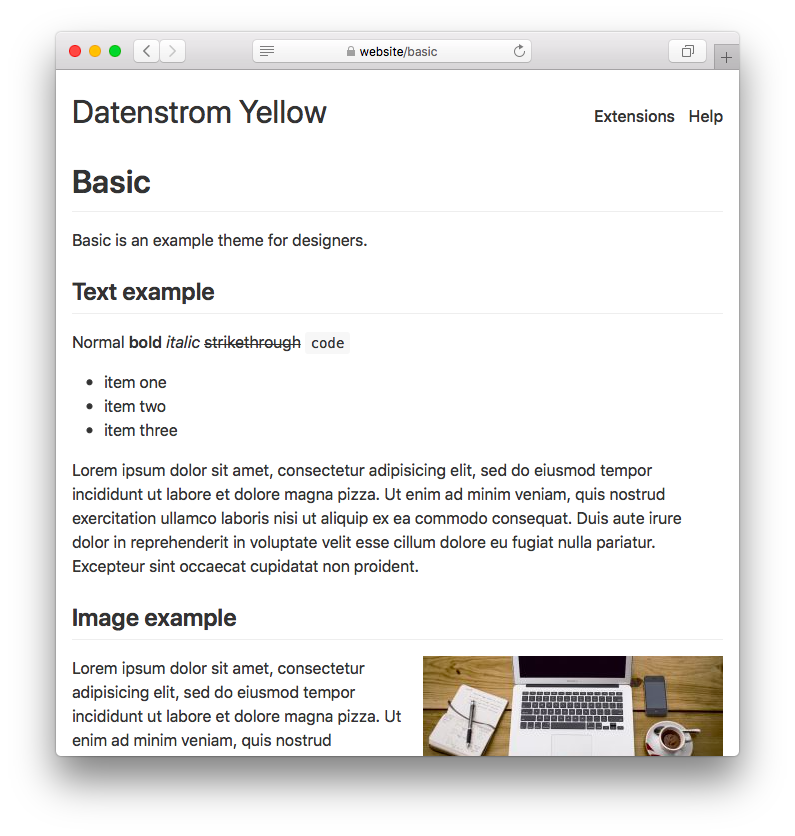
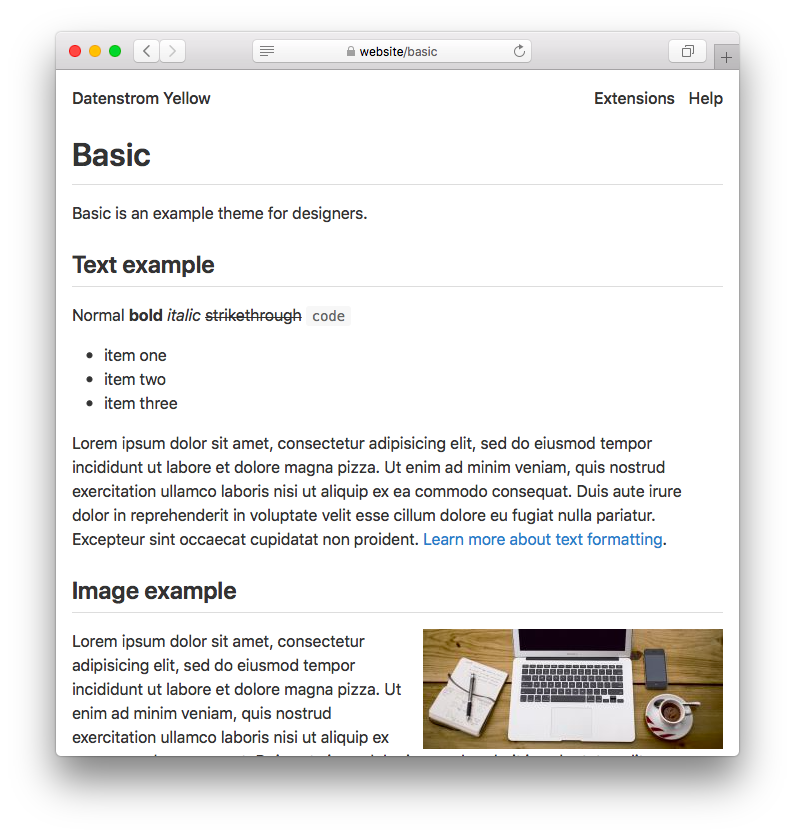
Updated theme, configurable colors in CSS

Changed region(s): [[0.0906, 0.0933, 0.9358, 0.9019], [0.7547, 0.0933, 0.9057, 0.1555]]

diff --git a/basic.css b/basic.css
@@ -1,5 +1,32 @@
 /* Basic extension, https://github.com/schulle4u/yellow-extension-basic */
 
+/* Colors and fonts */
+
+:root {
+    --bg: #fff;
+    --table-bg: #f8f8f8;
+    --code-bg: #f7f7f7;
+    --notice1-bg: #fffbf0;
+    --notice2-bg: #fdf0f0;
+    --notice3-bg: #f0f8fe;
+    --heading: #333;
+    --text: #333;
+    --code: #666;
+    --link: #4183c4;
+    --link-active: #333;
+    --blockquote: #777;
+    --blockquote-accent: #ddd;
+    --notice1-accent: #fb0;
+    --notice2-accent: #d00;
+    --notice3-accent: #08e;
+    --separator: #ddd;
+    --border: #bbb;
+    --font: -apple-system, Roboto, Helvetica, sans-serif;
+    --monospace-font: Consolas, Menlo, Courier, monospace;
+}
+
+/* General */
+
 html, body, div, form, pre, span, tr, th, td, img {
     margin: 0;
     padding: 0;
@@ -8,53 +35,93 @@ html, body, div, form, pre, span, tr, th, td, img {
 }
 body {
     margin: 1em;
-    background-color: #fff;
-    color: #333;
-    font-family: -apple-system, "Segoe UI", Roboto, Helvetica, sans-serif;
+    background-color: var(--bg);
+    color: var(--text);
+    font-family: var(--font);
     font-size: 1em;
     font-weight: 400;
-    line-height: 1.6;
+    line-height: 1.5;
 }
-h1,
-h2,
-h3,
-h4,
-h5,
-h6 {
-    color: #333;
-    font-weight: normal;
+h1, h2, h3, h4, h5, h6 {
+    color: var(--heading);
+    font-weight: 400;
 }
 h1 {
     font-size: 2em;
-    font-weight: 600;
 }
 hr {
     height: 1px;
-    background: #ddd;
+    background: var(--separator);
     border: 0;
 }
 strong {
-    font-weight: 600;
+    font-weight: bold;
 }
 code {
     font-size: 1.1em;
 }
 a {
-    color: #0366d6;
+    color: var(--link);
     text-decoration: none;
 }
 a:hover {
-    color: #0366d6;
+    color: var(--link);
     text-decoration: underline;
 }
 
 /* Content */
 
+.content {
+    margin: 1em 0;
+    font-size: 16px;
+    line-height: 1.5;
+    word-wrap: break-word;
+}
+.content p,
+.content blockquote,
+.content table,
+.content pre {
+    margin: 1em 0;
+}
+.content h1,
+.content h2,
+.content h3,
+.content h4,
+.content h5,
+.content h6 {
+    margin-top: 24px;
+    margin-bottom: 16px;
+    font-weight: 600;
+    line-height: 1.25;
+    color: var(--heading);
+}
+.content h1 {
+    padding-bottom: 0.3em;
+    font-size: 2em;
+    border-bottom: 1px solid var(--separator);
+}
+.content h2 {
+    padding-bottom: 0.3em;
+    font-size: 1.5em;
+    border-bottom: 1px solid var(--separator);
+}
+.content h3 {
+    font-size: 1.25em;
+}
+.content h4 {
+    font-size: 1em;
+}
+.content h5 {
+    font-size: 0.875em;
+}
+.content h6 {
+    font-size: 85em;
+}
 .content h1 a {
-    color: #333;
+    color: var(--heading);
 }
 .content h1 a:hover {
-    color: #333;
+    color: var(--heading);
     text-decoration: none;
 }
 .content img {
@@ -68,20 +135,66 @@ a:hover {
     border-spacing: 0;
     border-collapse: collapse;
 }
+.content table th {
+    font-weight: bold
+}
+.content table th,
+.content table td {
+    padding: 6px 13px;
+    border: 1px solid var(--separator);
+}
+.content table tr {
+    background-color: var(--bg);
+    border-top: 1px solid var(--separator);
+}
+.content table tr:nth-child(2n) {
+    background-color: var(--table-bg);
+}
+.content code,
 .content pre {
+    font-family: var(--monospace-font);
+    font-size: 90%;
+}
+.content code {
+    padding: 0.15em 0.4em;
+    margin: 0;
+    background-color: var(--code-bg);
+    color: var(--code);
+    border-radius: 3px;
+}
+.content pre > code {
+    padding: 0;
+    margin: 0;
+    white-space: pre;
+    background: transparent;
+    border: 0;
+    font-size: inherit;
+}
+.content pre {
+    padding: 1em;
     overflow: auto;
+    line-height: 1.45;
+    background-color: var(--code-bg);
+    color: var(--code);
+    border-radius: 3px;
+}
+.content blockquote {
+    margin-left: 0;
+    padding-left: 1em;
+    border-left: 4px solid var(--blockquote-accent);
+    color: var(--blockquote);
 }
 .content .notice1 {
     margin: 1em 0;
     padding: 10px 1em;
-    background-color: #fffbf0;
-    border-left: 4px solid #fb0;
+    background-color: var(--notice1-bg);
+    border-left: 4px solid var(--notice1-accent);
 }
 .content .notice2 {
     margin: 1em 0;
     padding: 10px 1em;
-    background-color: #fdf0f0;
-    border-left: 4px solid #d00;
+    background-color: var(--notice2-bg);
+    border-left: 4px solid var(--notice2-accent);
 }
 .content .notice3,
 .content .notice4,
@@ -89,8 +202,11 @@ a:hover {
 .content .notice6 {
     margin: 1em 0;
     padding: 10px 1em;
-    background-color: #f0f8fe;
-    border-left: 4px solid #08e;
+    background-color: var(--notice3-bg);
+    border-left: 4px solid var(--notice3-accent);
+}
+.content ul, .content ol {
+    padding-left: 2em;
 }
 .content .flexible {
     position: relative;
@@ -152,16 +268,20 @@ a:hover {
 }
 .header .sitename h1 {
     margin: 0;
-    font-size: 2em;
-    font-weight: 400;
+    font-size: 1em;
+    font-weight: 500;
 }
 .header .sitename h1 a {
-    color: #333;
+    color: var(--text);
+    text-decoration: none;
+}
+.header .sitename h1 a:hover {
+    color: var(--link);
     text-decoration: none;
 }
 .header .sitename p {
     margin-top: 0;
-    color: #333;
+    color: var(--text);
     font-weight: 500;
 }
 
@@ -172,16 +292,15 @@ a:hover {
     float: right;
 }
 .navigation {
-    margin-top: 1.1em;
     font-weight: 500;
 }
 .navigation a {
-    color: #333;
+    color: var(--text);
     text-decoration: none;
     padding: 0 0.3em;
 }
 .navigation a:hover {
-    color: #0366d6;
+    color: var(--link);
     text-decoration: none;
 }
 .navigation ul {
@@ -193,10 +312,10 @@ a:hover {
     display: inline;
 }
 .navigation li a.active {
-    color: #333;
+    color: var(--link-active);
 }
 .navigation li a.active:hover {
-    color: #0366d6;
+    color: var(--link);
 }
 .navigation-banner {
     clear: both;
@@ -206,55 +325,27 @@ a:hover {
 
 .footer {
     margin-top: 1em;
-    border-top: 1px solid #eee;
+    border-top: 1px solid var(--separator);
 }
 .footer .siteinfo a {
-    color: #0366d6;
+    color: var(--link);
 }
 .footer .siteinfo a:hover {
-    color: #0366d6;
+    color: var(--link);
     text-decoration: underline;
 }
-
-/* Reengineered from GitHub */
-
-.content {
-    margin: 1em 0;
-}
-.content tt,
-.content code,
-.content pre {
-    font-family: Consolas, "Liberation Mono", Menlo, Courier, monospace;
-    font-size: 0.9em;
-}
-.content h1,
-.content h2,
-.content h3,
-.content h4,
-.content h5,
-.content h6 {
-    color: #333;
-}
-.content a {
-    color: #0366d6;
-}
-.content a:hover {
-    color: #0366d6;
-    text-decoration: underline;
-}
-.content { font-size:16px;line-height:1.5;word-wrap:break-word}.content .absent{color:#c00}.content .anchor{position:absolute;top:0;bottom:0;left:0;display:block;padding-right:6px;padding-left:30px;margin-left:-30px}.content .anchor:focus{outline:none}.content h1,.content h2,.content h3,.content h4,.content h5,.content h6{position:relative;margin-top:24px;margin-bottom:16px;font-weight:600;line-height:1.25}.content h1 .octicon-link,.content h2 .octicon-link,.content h3 .octicon-link,.content h4 .octicon-link,.content h5 .octicon-link,.content h6 .octicon-link{display:none;color:#000;vertical-align:middle}.content h1:hover .anchor,.content h2:hover .anchor,.content h3:hover .anchor,.content h4:hover .anchor,.content h5:hover .anchor,.content h6:hover .anchor{height:1em;padding-left:8px;margin-left:-30px;line-height:1;text-decoration:none}.content h1:hover .anchor .octicon-link,.content h2:hover .anchor .octicon-link,.content h3:hover .anchor .octicon-link,.content h4:hover .anchor .octicon-link,.content h5:hover .anchor .octicon-link,.content h6:hover .anchor .octicon-link{display:inline-block}.content h1 tt,.content h1 code,.content h2 tt,.content h2 code,.content h3 tt,.content h3 code,.content h4 tt,.content h4 code,.content h5 tt,.content h5 code,.content h6 tt,.content h6 code{font-size:inherit}.content h1{padding-bottom:0.3em;font-size:2em;border-bottom:1px solid #eee}.content h2{padding-bottom:0.3em;font-size:1.5em;border-bottom:1px solid #eee}.content h3{font-size:1.25em;}.content h4{font-size:1em}.content h5{font-size:0.875em}.content h6{font-size:85em;color:#777}.content p,.content blockquote,.content ul,.content ol,.content dl,.content table,.content pre{margin-top:16px;margin-bottom:16px}.content hr{height:4px;padding:0;margin:16px 0;background-color:#e7e7e7;border:0 none}.content ul,.content ol{padding-left:2em}.content ul.no-list,.content ol.no-list{padding:0;list-style-type:none}.content ul ul,.content ul ol,.content ol ol,.content ol ul{margin-top:0;margin-bottom:0}.content dl{padding:0}.content dl dt{padding:0;margin-top:16px;font-size:1em;font-style:italic;font-weight:bold}.content dl dd{padding:0 16px;margin-bottom:16px}.content blockquote{padding:0 15px;color:#777;border-left:4px solid #ddd}.content blockquote>:first-child{margin-top:0}.content blockquote>:last-child{margin-bottom:0}.content table th{font-weight:bold}.content table th,.content table td{padding:6px 13px;border:1px solid #ddd}.content table tr{background-color:#fff;border-top:1px solid #ccc}.content table tr:nth-child(2n){background-color:#f8f8f8}.content img{max-width:100%;box-sizing:content-box;background-color:#fff}.content span.frame{display:block;overflow:hidden}.content span.frame>span{display:block;float:left;width:auto;padding:7px;margin:13px 0 0;overflow:hidden;border:1px solid #ddd}.content span.frame span img{display:block;float:left}.content span.frame span span{display:block;padding:5px 0 0;clear:both;color:#333}.content span.align-center{display:block;overflow:hidden;clear:both}.content span.align-center>span{display:block;margin:13px auto 0;overflow:hidden;text-align:center}.content span.align-center span img{margin:0 auto;text-align:center}.content span.align-right{display:block;overflow:hidden;clear:both}.content span.align-right>span{display:block;margin:13px 0 0;overflow:hidden;text-align:right}.content span.align-right span img{margin:0;text-align:right}.content span.float-left{display:block;float:left;margin-right:13px;overflow:hidden}.content span.float-left span{margin:13px 0 0}.content span.float-right{display:block;float:right;margin-left:13px;overflow:hidden}.content span.float-right>span{display:block;margin:13px auto 0;overflow:hidden;text-align:right}.content code,.content tt{padding:0;padding-top:0.2em;padding-bottom:0.2em;margin:0;font-size:85%;background-color:#f6f8fa;border-radius:3px}.content code:before,.content code:after,.content tt:before,.content tt:after{letter-spacing:-0.2em;content:"\00a0"}.content code br,.content tt br{display:none}.content del code{text-decoration:inherit;vertical-align:text-top}.content pre>code{padding:0;margin:0;font-size:100%;word-break:normal;white-space:pre;background:transparent;border:0}.content .highlight pre,.content pre{padding:16px;overflow:auto;font-size:85%;line-height:1.45;background-color:#f6f8fa;border-radius:3px}.content pre{word-wrap:normal}.content pre code,.content pre tt{display:inline;max-width:auto;padding:0;margin:0;overflow:visible;line-height:inherit;word-wrap:normal;background-color:transparent;border:0}.content pre code:before,.content pre code:after,.content pre tt:before,.content pre tt:after{content:normal}
 
 /* Forms and buttons */
 
 .form-control {
     margin: 0;
-    padding: 4px 4px;
+    padding: 2px 4px;
     display: inline-block;
     min-width: 7em;
-    background-color: #fff;
-    color: #555;
-    background-image: linear-gradient(to bottom, #fff, #fff);
-    border: 1px solid #eee;
+    background-color: var(--bg);
+    color: var(--text);
+    background-image: linear-gradient(to bottom, var(--bg), var(--bg));
+    border: 1px solid var(--border);
     border-radius: 4px;
     font-size: 0.9em;
     font-family: inherit;
@@ -269,7 +360,7 @@ a:hover {
     background-color: #eaeaea;
     color: #333333;
     background-image: linear-gradient(to bottom, #f8f8f8, #e1e1e1);
-    border: 1px solid #bbb;
+    border: 1px solid var(--border);
     border-color: #c1c1c1 #c1c1c1 #aaaaaa;
     border-radius: 4px;
     outline-offset: -2px;
